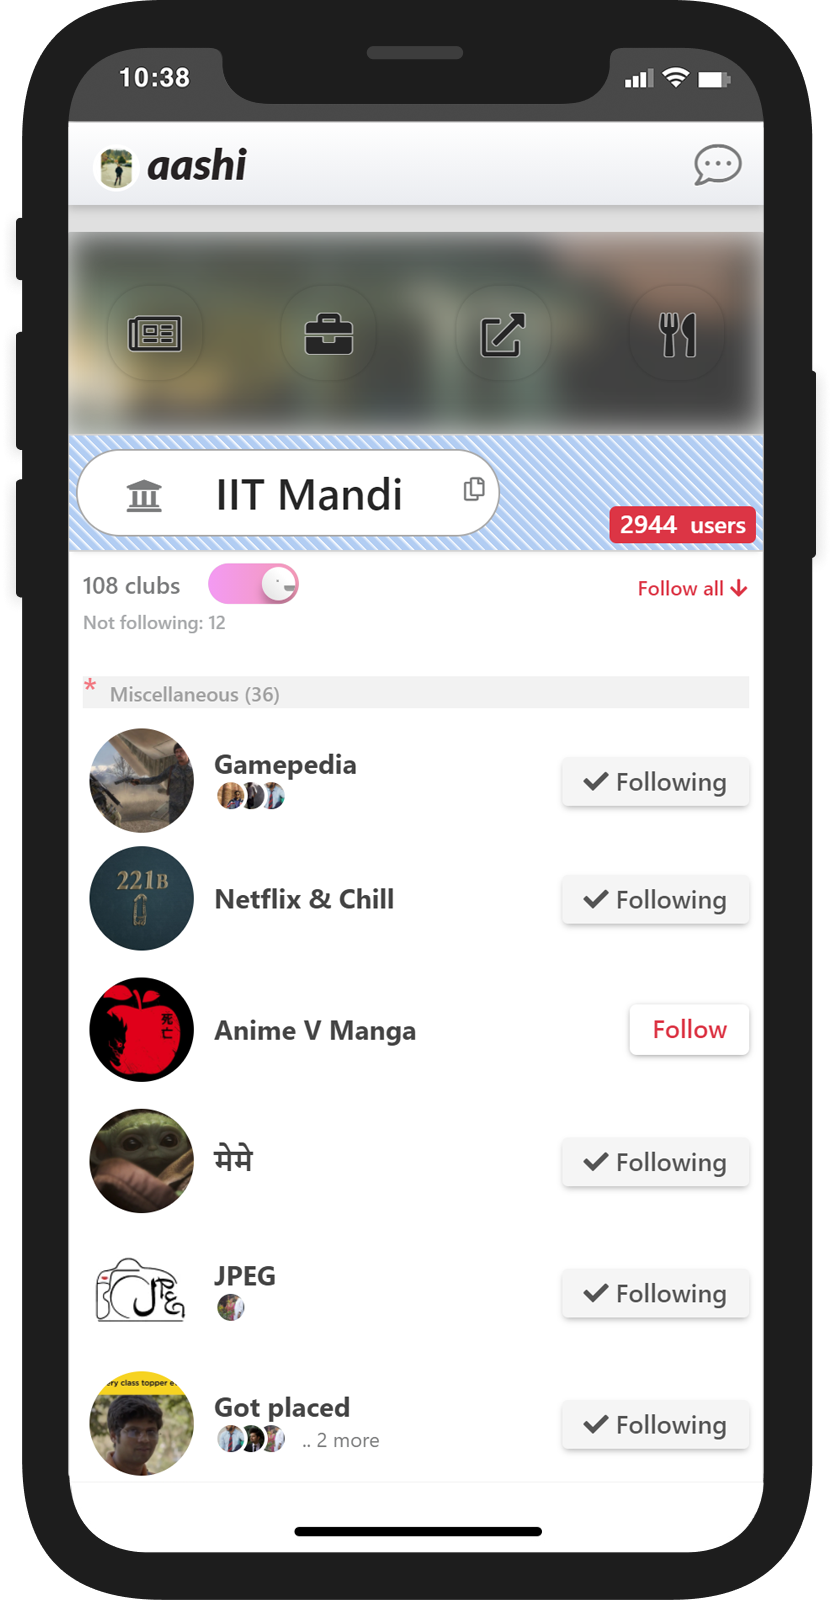
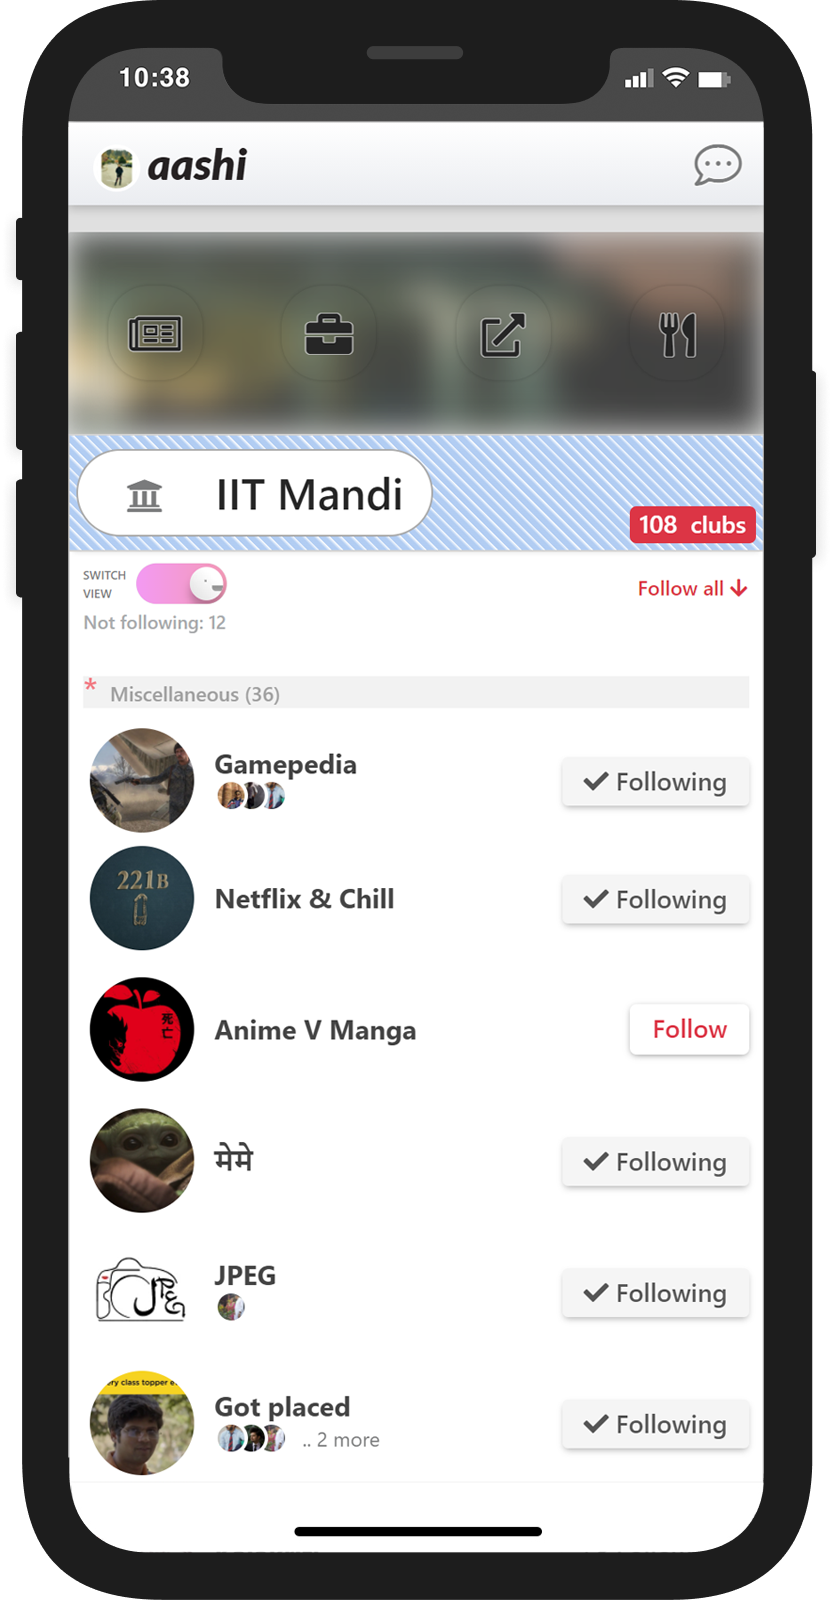
college page switch view and illustration update

diff --git a/public/css/index.css b/public/css/index.css
@@ -26,6 +26,7 @@
   font-size: 1.25rem;
   width: 2.125rem;
   text-align: center;
+  vertical-align: text-bottom;
 }
 #sidebar-dropbox{
   max-height: 350px;
@@ -55,6 +56,7 @@ div.content{
 @media screen and (min-width: 1200px){
   .chatbox-loadingarea{margin: 0 0 0 77.25%; left: 0; right: 0;}
   #side-home{height: 40px;}
+  .fas.fa-microphone-alt{margin: -0.1875rem 0;}
   .story-alt-container{width: 45vw;}
   #story-footer, .absolute-center{width: calc(100% - 10rem - 2rem) !important;}
   .btn.story-maker-next.back{left: 11rem !important;}
@@ -134,8 +136,7 @@ div.content{
   .description-short-show{font-size: 1.25rem !important;}
   .chatdp{margin-left: 0.125rem !important; margin-right: 0.125rem !important;}
   .discoverlink{top: 0 !important; left: 45% !important;}
-  #copyTxt{padding: 0 0.25rem !important;}
-  #toggleCollegePage-form{position: absolute; left: 4.875rem !important;}
+  #collegeText{padding: 0 0 0 0.25rem !important;}
   #collegeicon{margin-left: -0.9375rem !important; margin-right: 0.8125rem !important;}
   img.avatar.cover{border-radius: 0.5rem 0 0 0.5rem !important;}
   img.cover.mobile-cover, div.carousel-img{border-radius: 0 0.5rem 0.5rem 0 !important;}
@@ -153,6 +154,7 @@ div.content{
 @media screen and (max-width: 1199px){
   .sidebar-back{background-color: white; position: fixed; width: 100%; top: 0; left: 0; height: 42px;
     z-index: 8; box-shadow: 0px 2px 6px 0px rgba(0,0,0,0.2);}
+  .fas.fa-microphone-alt{margin-right: 0.25rem; margin-left: 0.25rem;}
   .navbar{padding: 1px 10px !important;}
   .navback{background-color: #353535 !important;}
   .navname{background-color: unset !important;}
@@ -292,7 +294,6 @@ div.content{
   #chatbox-loadingarea.chatbox-loadingarea2{bottom: 0 !important; padding: 0 !important;}
   .messages-long{height: calc(100vh - 3.5rem - 40px - 31px - 38px) !important;}
   .chatpad{padding: 0 0.5rem; margin: 0 0.25rem 0.5rem 0.25rem;}
-  .copyBtn{margin-left: 0.75rem !important;}
   .gb11:focus:after{top: 0 !important; left: 0 !important; right: 0 !important; bottom: 0 !important;}
   #emoji-picker2{padding-top: 0 !important; padding-bottom: 0 !important;}
   .emoji-up{bottom: 2.125rem !important;}
@@ -328,8 +329,7 @@ div.content{
   .collegedp{margin: 0 0.25rem !important;}
   .description{height: 7.5rem !important;}
   .description-short-show{font-size: 1.1875rem !important;}
-  #copyTxt{padding: 0 0.8125rem !important;}
-  #toggleCollegePage-form{position: absolute; left: 4.675rem !important;}
+  #collegeText{padding: 0 0 0 0.8125rem !important;}
   #collegeicon{margin-left: -0.375rem !important; margin-right: 0.375rem !important;}
   .btncollapse-club.collapsed, .btncollapse-user.collapsed{background-color: #efefef !important; border-color: transparent !important; box-shadow: none !important;}
   .btncollapse-user.collapsed{border-radius: 0.5rem;}
@@ -436,8 +436,7 @@ div.content{
   .lineheight-least{line-height: 0.875rem !important;}
   .chat-discover{font-size: 1.125rem;}
   h3{font-size: 1.875rem;}
-  #copyTxt{padding: 0 1.5rem !important;}
-  #toggleCollegePage-form{left: 5.375rem !important;}
+  #collegeText{padding: 0 0 0 1.5rem !important;}
   #collegeicon{margin-left: 0 !important; margin-right: 0 !important;}
   .commentbox{height: 32px !important;}
   .postdp{height: 32px !important; width: 32px !important;}
@@ -480,7 +479,7 @@ div.content{
   .friends-dp{height: 5.5475rem !important;}
   .commentpad2{padding-left: 0.25rem;}
   .discover-icon{font-size: 1.625rem;}
-  #copyTxt{padding: 0 1.5rem !important;}
+  #collegeText{padding: 0 0 0 1.5rem !important;}
 }
 /*LG Optimus L70 => 384px*/
 @media screen and (max-width: 385px){
@@ -510,6 +509,7 @@ div.content{
 @media screen and (max-width: 376px){
   .collegename{font-size: 1.375rem !important; line-height: 1.375rem !important;}
   .sidebar a, a.side-drop-elem{padding: 14px 10.5px;}
+  .fas.fa-microphone-alt{margin-left: 0rem !important;}
   a.hr2.active{padding-top: 12.5px; padding-bottom: 12.5px;}
   .sidebar-label{font-size: 0.75rem !important;}
   .sidebar-icon{font-size: 1.325rem;}
@@ -517,7 +517,7 @@ div.content{
   button.vote{font-size: 1.375rem !important;}
   .searchdp{height: 100px !important; width: 100px!important;}
   .topic-column{padding-left: 0.3125rem !important; padding-right: 0.3125rem !important;}
-  #copyTxt{padding: 0 1.625rem !important;}
+  #collegeText{padding: 0 0 0 1.625rem !important;}
   .btn.moderation.btn-topic{right: -2.75rem !important;}
 }
 /*Asus Max Pro M-1/ Galaxy S9 => 360px*/
@@ -526,10 +526,10 @@ div.content{
   .sidebar-back{height: 42px !important;}
   .navbar{padding: 1px 10px !important;}
   #sidebar-dropbox{top: 42px;}
-  .sidebar a{padding: 10.5px 10px; height: 42px !important; padding-left: 0.375rem; padding-right: 0.375rem;}
+  .sidebar a{padding: 10.5px 10px; height: 42px !important;}
   a.side-drop-elem{padding: 10.5px 10px; height: unset !important; min-height: 42px;}
   a.hr2.active{padding-top: 8.5px; padding-bottom: 8.5px;}
-  .sidebar-label{font-size: 0.6875rem !important;}
+  .sidebar-label{font-size: 0.6875rem !important; padding-bottom: 0.125rem;}
   .mobile-cover{height: 160px !important;}
   div.lpcov{width: 168px; padding-bottom: 0 !important;}
   .profilename{width: 160px;}
@@ -592,8 +592,7 @@ div.content{
   .lineheight-least{line-height: 0.75rem !important;}
   .chat-discover{font-size: 1rem;}
   h3{font-size: 1.75rem;}
-  #copyTxt{padding: 0 1.125rem !important;}
-  #toggleCollegePage-form{left: 4.875rem !important;}
+  #collegeText{padding: 0 0 0 1.125rem !important;}
   #collegeicon{margin-left: -0.25rem !important; margin-right: 0.25rem !important;}
   .commentbox{height: 30px !important;}
   .postdp{height: 30px !important; width: 30px !important;}
@@ -949,13 +948,13 @@ input{
 #explore-switch{
   color: white;
   background: rgb(100,149,237);
-  background: linear-gradient(90deg, #007dd5 25%, #6495ed 60%, #f6d7b0 90%, #7ddc3f 100%);
+  background: radial-gradient(circle at bottom left, #007dd5 25%, #6495ed 60%, #f6d7b0 90%, #7ddc3f 100%);
   cursor: default;
   text-shadow: 0 0 3px rgba(0,0,0,0.35);
   white-space: nowrap;
 }
 #explore-switch-mobile{
-  background: linear-gradient(80deg, #257bef 10%, #6495ed 65%, #7ddc3f 80%, #f6d7b0 85%);
+  background: radial-gradient(circle at left, #257bef 10%, #6495ed 65%, #7ddc3f 80%, #f6d7b0 85%);
   cursor: default;
   -webkit-background-clip: text;
   -webkit-text-fill-color: transparent;
@@ -1648,53 +1647,6 @@ input[type="file"]#inputroomAvatar, input[type="file"]#backgroundpick{
 }
 .btn-search:focus{
   outline: none !important;
-}
-.copyBtn{
-  background: none!important;
-  border: none;
-  padding: 0!important;
-  cursor: pointer;
-  margin-left: 1rem;
-}
-.tooltip{
-  position: relative;
-  display: inline-block;
-  opacity: 1 !important;
-  z-index: 3 !important;
-  height: 0;
-}
-.tooltip .tooltiptext{
-  visibility: hidden;
-  width: 140px;
-  background-color: #555;
-  color: #fff;
-  text-align: center;
-  border-radius: 6px;
-  padding: 5px;
-  position: absolute;
-  z-index: 3 !important;
-  bottom: 150%;
-  left: 50%;
-  margin-left: -75px;
-  opacity: 0;
-  transition: opacity 0.3s;
-  top: 100%;
-  height: min-content;
-  margin-top: 35px;
-}
-.tooltip .tooltiptext::after{
-  content: "";
-  position: absolute;
-  bottom: 100%;
-  left: 50%;
-  margin-left: 8px;
-  border-width: 5px;
-  border-style: solid;
-  border-color: transparent transparent #555 transparent;
-}
-.tooltip:hover .tooltiptext{
-  visibility: visible;
-  opacity: 1;
 }
 .pointer{
   cursor: pointer !important;

diff --git a/public/js/index.js b/public/js/index.js
@@ -663,37 +663,6 @@ if(location.pathname.split('/').length == 3 && location.pathname.split('/')[1] =
   });
 }
 
-// Copy college name
-function copyTxtFn(){
-  var range, selection, worked;
-  var copyText = document.getElementById('copyTxt');
-  if (document.body.createTextRange){
-    range = document.body.createTextRange();
-    range.moveToElementText(copyText);
-    range.select();
-  } else if (window.getSelection){
-    selection = window.getSelection();        
-    range = document.createRange();
-    range.selectNodeContents(copyText);
-    selection.removeAllRanges();
-    selection.addRange(range);
-  }
-  
-  try{
-    document.execCommand('copy');
-    var tooltip = document.getElementById("myTooltip");
-    tooltip.innerHTML = "Copied: " + $('#copyTxt').text();
-  }
-  catch(err){
-    alert('unable to copy text');
-  }
-}
-
-function outCopyTxtFn(){
-  var tooltip = document.getElementById("myTooltip");
-  tooltip.innerHTML = "Copy to clipboard";
-}
-
 $('.togglePostsView-form').on('click', function(){
   $('.circle-plus').toggleClass('opened');
   setTimeout(function(){

diff --git a/public/css/dark.css b/public/css/dark.css
@@ -518,13 +518,13 @@ input.form-control.search:focus{
 #explore-switch{
   color: white;
   background: rgb(100,149,237);
-  background: linear-gradient(90deg, #444152 25%, #7a637f 60%, #e4b4ad 90%, #ff7062 100%);
+  background: radial-gradient(circle at bottom left, #444152 25%, #7a637f 60%, #e4b4ad 90%, #ff7062 100%);
   cursor: default;
   text-shadow: 0 0 3px rgba(0,0,0,0.35);
   white-space: nowrap;
 }
 #explore-switch-mobile{
-  background: linear-gradient(80deg, #444152 10%, #7a637f 65%, #ff7062 80%, #e4b4ad 85%);
+  background: radial-gradient(circle at left, #444152 10%, #7a637f 65%, #ff7062 80%, #e4b4ad 85%);
   cursor: default;
   -webkit-background-clip: text;
   -webkit-text-fill-color: transparent;
